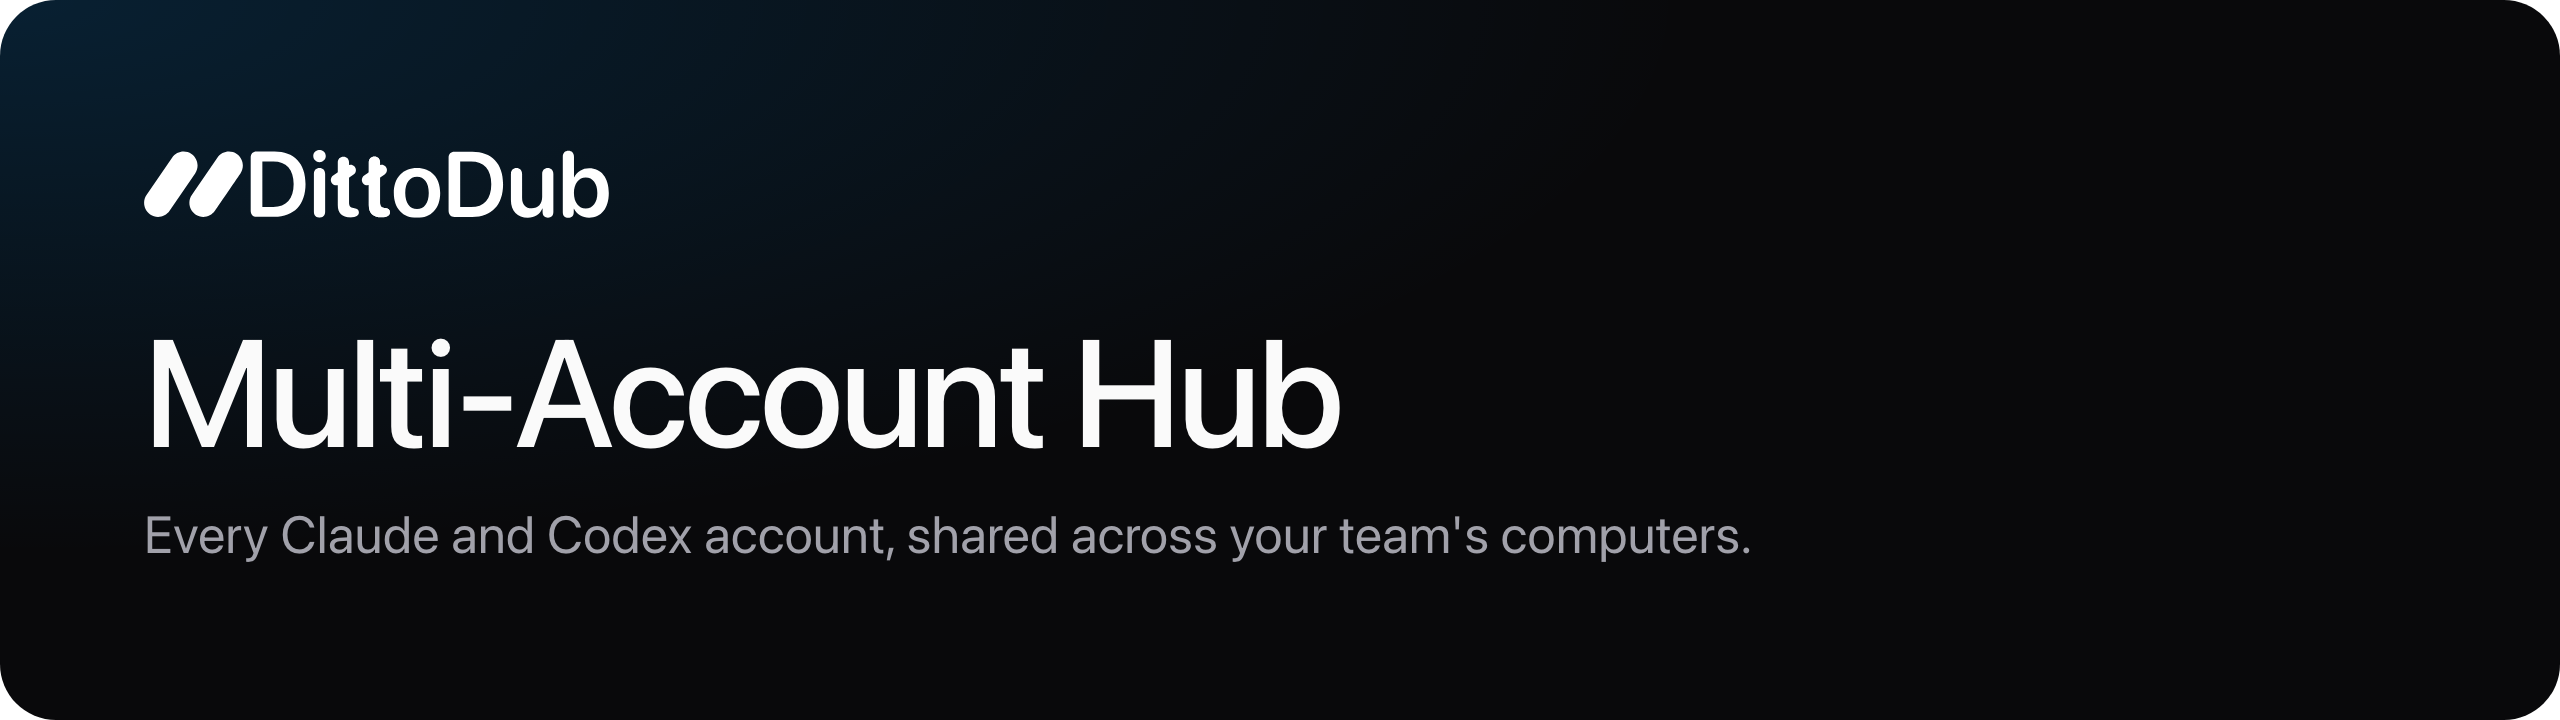
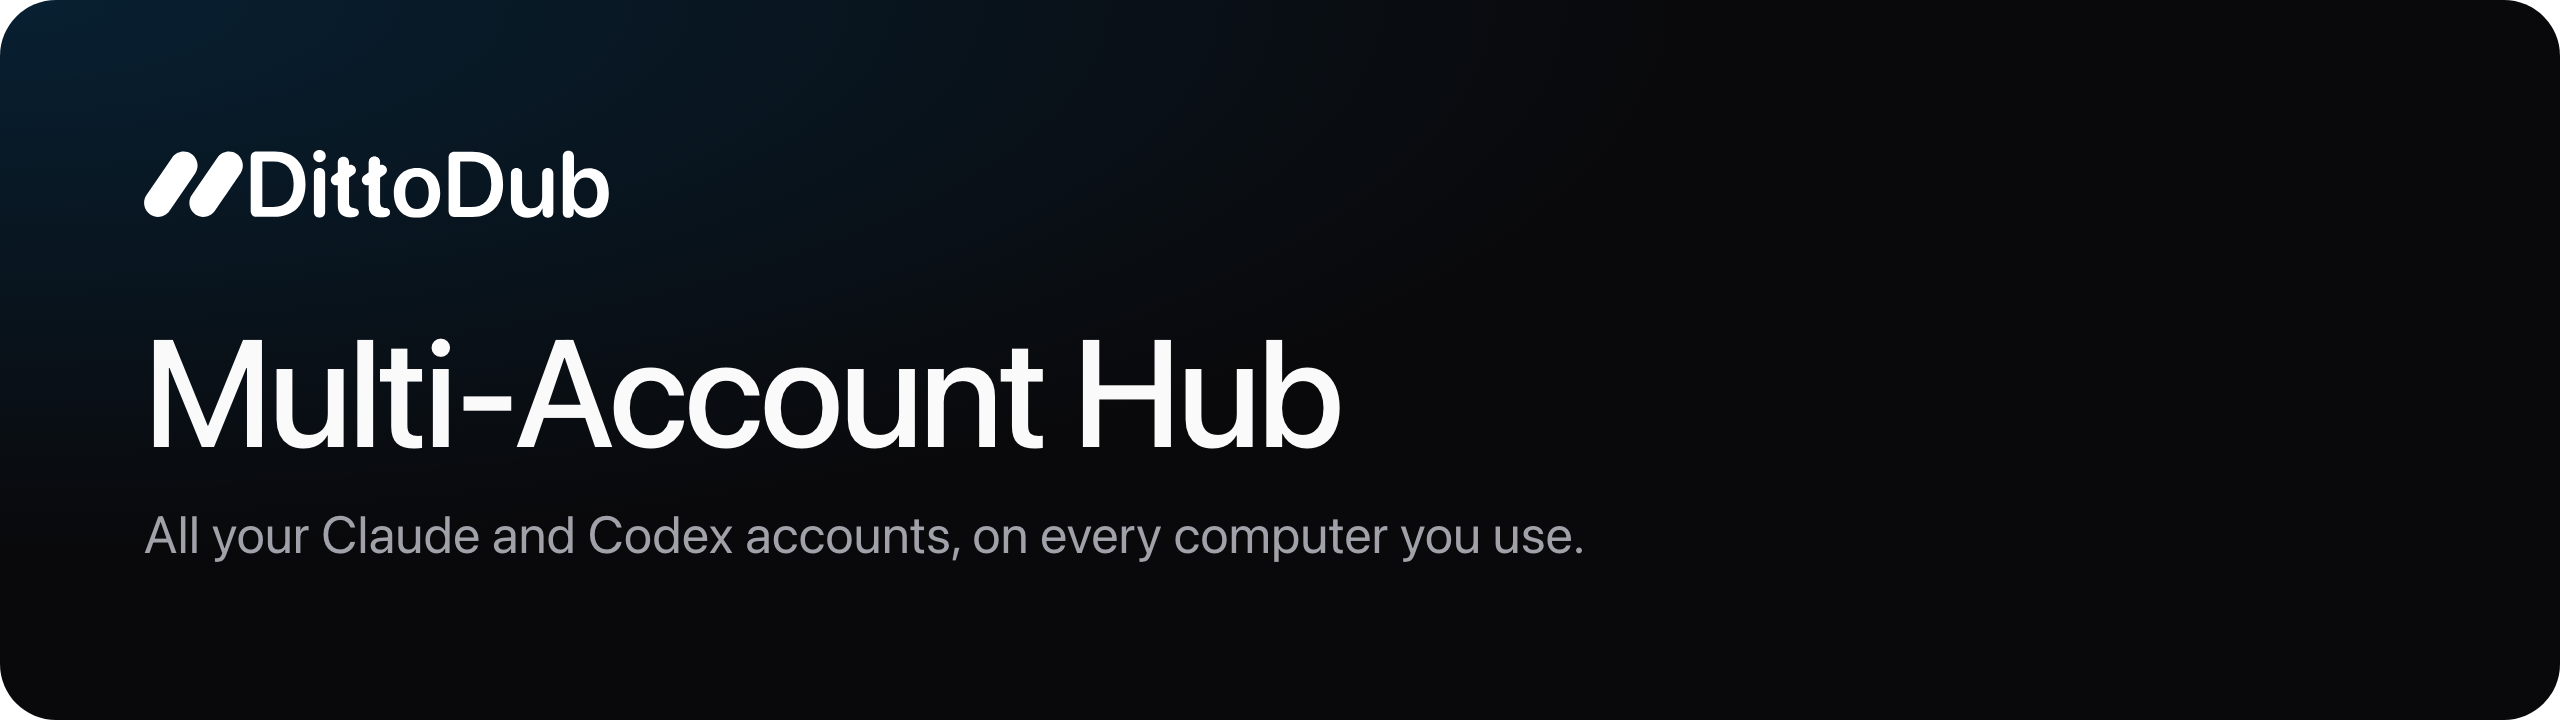
Describe the hub for solo use and many solos on one hub

Changed region(s): [[0.0312, 0.7028, 0.6875, 0.7944]]

diff --git a/README.md b/README.md
@@ -1,13 +1,20 @@
 <p align="center"><img src="assets/banner.png" alt="DittoDub logo above the title Multi-Account Hub" width="100%"></p>
 
-One always-on computer holds every Claude and Codex account your team has.
-Every other computer connects to it with its own key: laptops, desktops,
-servers. T3 Code shows each account's remaining usage and lets you spend Codex
-reset credits from its usage panel.
+One always-on computer holds all your Claude and Codex accounts. Every
+computer you work on connects to it with its own key: laptops, desktops,
+servers. T3 Code shows each account's remaining usage and can spend Codex reset
+credits from its usage panel.
 
-Run it as a private hub over **Tailscale**, or add an optional **website**
-where teammates sign in with Google, connect computers and add their own
-accounts.
+It works for one person or for many:
+
+- **Solo.** Sign each account in once, on one machine at home, and use them all
+  from every computer you own.
+- **Many solos, one hub.** Each person connects their own accounts, and those
+  accounts stay theirs: only that person's computers use them. One hub runs
+  everyone's setup, so nobody keeps their own box alive.
+
+Run it privately over **Tailscale**, or add an optional **website** where people
+sign in with Google, connect their computers and add their own accounts.
 
 ## Inspired by T3 Code
 
@@ -18,28 +25,26 @@ lays out the idea:
 - Sign every account into one always-on box at home running
   [CLIProxyAPI](https://github.com/router-for-me/CLIProxyAPI).
 - Point every machine at it over Tailscale.
-- Let T3 Code read the pooled limits through its **Usage providers** setting.
+- Let T3 Code read each account's limits through its **Usage providers**
+  setting.
 
-It worked so well for one person that we wanted it for a whole team. T3 Code
-shaped the result in three ways:
+We wanted that for several people, each with their own accounts, without
+everyone running a box. T3 Code shaped the result in three ways:
 
-- **Usage where you work.** The hub speaks the same CLIProxy usage API that T3
-  Code's usage panel reads. Each computer sees the accounts it can use, with
-  live limits, reset times and banked Codex resets, and can redeem a reset
-  without leaving T3.
-- **Setup by prompt.** Connecting a computer means pasting one prompt into the
-  coding agent you already use. The agent runs the setup script, which adds
-  **HUB Codex** and **HUB Claude** providers to T3 Code and turns on usage
-  automatically.
+- **Usage where you work.** The hub speaks the CLIProxy usage API that T3 Code's
+  usage panel reads. Each computer sees its accounts' live limits, reset times
+  and banked Codex resets, and can redeem a reset without leaving T3.
+- **Setup by prompt.** To connect a computer, paste one prompt into the coding
+  agent you already use. The agent runs the setup script, which adds **HUB
+  Codex** and **HUB Claude** providers to T3 Code and turns on usage.
 - **Same rules as the guide.** One home machine, no datacenter sign-ins,
   session affinity so prompt caches stay warm, and Codex over WebSockets.
 
-What the hub adds for a team:
+What the hub adds:
 
-- **Personal or shared accounts.** Whoever connects an account decides whether
-  it is personal (only ever used for them) or shared with the team.
-  Administrators choose which shared accounts each person can use, but cannot
-  reach anyone's personal account.
+- **Accounts stay personal.** An account is used only for the person who
+  connected it, and administrators can't change that. Its owner can choose to
+  share it, but nothing is shared by default.
 - **A key per computer.** Every computer gets its own key, and any one can be
   revoked without touching the others. The hub stores only hashes.
 - **Watchdog and alerts.** A cron watchdog restarts stopped services and posts
@@ -47,10 +52,11 @@ What the hub adds for a team:
   attention.
 
 > [!WARNING]
-> Pooling subscriptions may break a provider's terms, and accounts can be
-> banned. Keep Theo's two rules: never use the hub to serve other people's
-> traffic, and use Claude subscriptions only from Claude Code. Run the hub at
-> home, never on a VPS or behind a VPN.
+> Routing subscriptions through a proxy may break a provider's terms, and
+> accounts can be banned. Keep Theo's two rules: use your subscriptions for
+> your own work, never to serve anyone else's traffic, and use Claude
+> subscriptions only from Claude Code. Run the hub at home, never on a VPS or
+> behind a VPN.
 
 <p align="center"><img src="assets/portal.png" alt="The hub website: usage per account and computer setup" width="760"></p>
 
@@ -72,7 +78,7 @@ What the hub adds for a team:
 | --- | --- |
 | `team-gateway.cjs` | The only listener clients reach. Authenticates computer keys, exposes only the model, usage and reset endpoints, and streams without logging bodies. |
 | CLIProxyAPI + key router | Pinned upstream builds with local patches (`upstream/`) so each member can use only the accounts assigned to them. Requests fail closed if routing is unavailable. |
-| `portal/` | Optional website: Google sign-in, setup prompts, connecting accounts, team access and computers. |
+| `portal/` | Optional website: Google sign-in, setup prompts, connecting accounts, access settings and computers. |
 | `hub-admin.py` | Members, computers and account sharing from the hub's terminal. This is everything a Tailscale-only hub needs. |
 | `watchdog.py`, `portal/run-monitor.cjs` | Availability checks, account sign-in health and Discord alerts. |
 | `onboarding/`, `scripts/configure-t3-usage.cjs` | Client setup the hub serves with its own address filled in. |
@@ -161,14 +167,15 @@ python3 hub-admin.py add-member alex alex@example.com --admin
 ./cliproxyapi-auth-helper -config guarded-config.yaml -codex-device-login
 ./cliproxyapi-auth-helper -config guarded-config.yaml -claude-login
 python3 hub-admin.py accounts
-python3 hub-admin.py share codex:you@example.com alex team
+python3 hub-admin.py share codex:alex@example.com alex personal
 python3 hub-admin.py enable alex
 ```
 
-New members automatically get every account shared with the team. A member
-without any accounts starts disabled until one is shared or granted. On your
+A member without any accounts starts disabled until one is connected for
+them, then `enable` turns them on. If an owner has chosen to share an account,
+new members get it automatically. On your
 own record in `gateway-users.json`, set `"owner": true` so nobody can disable
-you from the website. Once the website is running, teammates can connect their
+you from the website. Once the website is running, people can connect their
 own accounts in the browser instead.
 
 **6. Connect computers.**
@@ -191,11 +198,11 @@ computer only refreshes the usage setup.
 ## Day to day
 
 ```bash
-python3 hub-admin.py list                 # members and the accounts they can use
+python3 hub-admin.py list                 # people and the accounts they use
 python3 hub-admin.py devices [alex]       # registered computers
 python3 hub-admin.py revoke-device ID     # cut off one computer
 python3 hub-admin.py disable alex         # cut off a person
-python3 hub-admin.py grant alex claude:team@example.com
+python3 hub-admin.py grant alex claude:alex@example.com
 python3 watchdog.py --verbose             # run every check now
 node issue-login-link.cjs alex@example.com # website: one-time sign-in link
 ```
